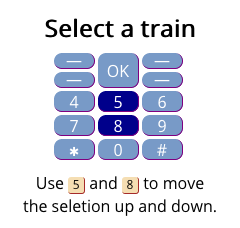
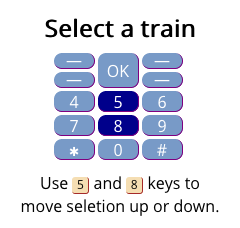
More help copy changes.

Changed region(s): [[0.0875, 0.7675, 0.9333, 0.9518]]

diff --git a/webapp/es5/NextCaltrain.js b/webapp/es5/NextCaltrain.js
@@ -29,7 +29,7 @@ var screens = 'hero grid trip about commands'.split(' ');
 var titles = { 'about': 'About Next Caltrain', 'commands': 'Keypad commands' };
 var email = 'next-caltrain@netpress.com';
 
-var hints = [['Set your origin', [4, 6], 'Use [4] and [6] to<br/>set your origin station.'], ['Set destination', [7, 9], 'Use [7] and [9] to<br/>set destination station.'], ['Select a train', [5, 8], 'Use [5] and [8] to move<br/>the seletion up and down.'], ['Flip direction', ['c'], 'Flip the selected stations<br/>with the green [call] button.'], ['Save stations', ['l'], 'Select "Save Stations"<br/>with the [Left] softkey.'], ['Bookmark app', ['r'], 'Select "Pin to Apps Menu"<br/>with the [Right] softkey.'], ['Change schedule', ['0'], 'Use [0] to cycle through<br/>available schedules.'], ['Thanks for using<br/> Next Caltrain', null, `Please send feedback to<br/>&nbsp;<a href="mailto:${email}">${email}</a>.<br/>` + 'Note: The cursor (arrow)<br/>is not used by this app,<br/>' + 'just move it to the right.<br/>']];
+var hints = [['Set your origin', [4, 6], 'Use [4] and [6] keys to<br/>set your origin station.'], ['Set destination', [7, 9], 'Use [7] and [9] keys to<br/>set destination station.'], ['Select a train', [5, 8], 'Use [5] and [8] keys to<br/>move seletion up or down.'], ['Flip direction', ['c'], 'Press the [CALL] button to<br/>flip the selected stations'], ['Save stations', ['l'], 'Press the [LEFT] softkey to<br/>select "Save Stations".'], ['Bookmark app', ['r'], 'Press the [RIGHT] softkey to<br/>select "Pin to Apps Menu".'], ['Change schedule', ['0'], 'Press [0] to cycle through<br/>available schedules.'], ['Thanks for using<br/> Next Caltrain', null, `Please send feedback to<br/>&nbsp;<a href="mailto:${email}">${email}</a>.<br/>` + 'Note: The cursor (arrow)<br/>is not used by this app,<br/>' + 'just move it to the right.<br/>']];
 
 var hintIndex = -1;
 

diff --git a/src/NextCaltrain.js b/src/NextCaltrain.js
@@ -25,19 +25,19 @@ const email = 'next-caltrain@netpress.com';
 
 const hints = [
   ['Set your origin', [4,6],
-   'Use [4] and [6] to<br/>set your origin station.'],
+   'Use [4] and [6] keys to<br/>set your origin station.'],
   ['Set destination', [7,9],
-   'Use [7] and [9] to<br/>set destination station.'],
+   'Use [7] and [9] keys to<br/>set destination station.'],
   ['Select a train', [5,8],
-   'Use [5] and [8] to move<br/>the seletion up and down.'],
+   'Use [5] and [8] keys to<br/>move seletion up or down.'],
   ['Flip direction', ['c'],
-   'Flip the selected stations<br/>with the green [call] button.'],
+   'Press the [CALL] button to<br/>flip the selected stations'],
   ['Save stations', ['l'],
-   'Select "Save Stations"<br/>with the [Left] softkey.'],
+   'Press the [LEFT] softkey to<br/>select "Save Stations".'],
   ['Bookmark app', ['r'],
-   'Select "Pin to Apps Menu"<br/>with the [Right] softkey.'],
+   'Press the [RIGHT] softkey to<br/>select "Pin to Apps Menu".'],
   ['Change schedule', ['0'],
-   'Use [0] to cycle through<br/>available schedules.'],
+   'Press [0] to cycle through<br/>available schedules.'],
   ['Thanks for using<br/> Next Caltrain', null,
    `Please send feedback to<br/>&nbsp;<a href="mailto:${email}">${email}</a>.<br/>` +
    'Note: The cursor (arrow)<br/>is not used by this app,<br/>' +
